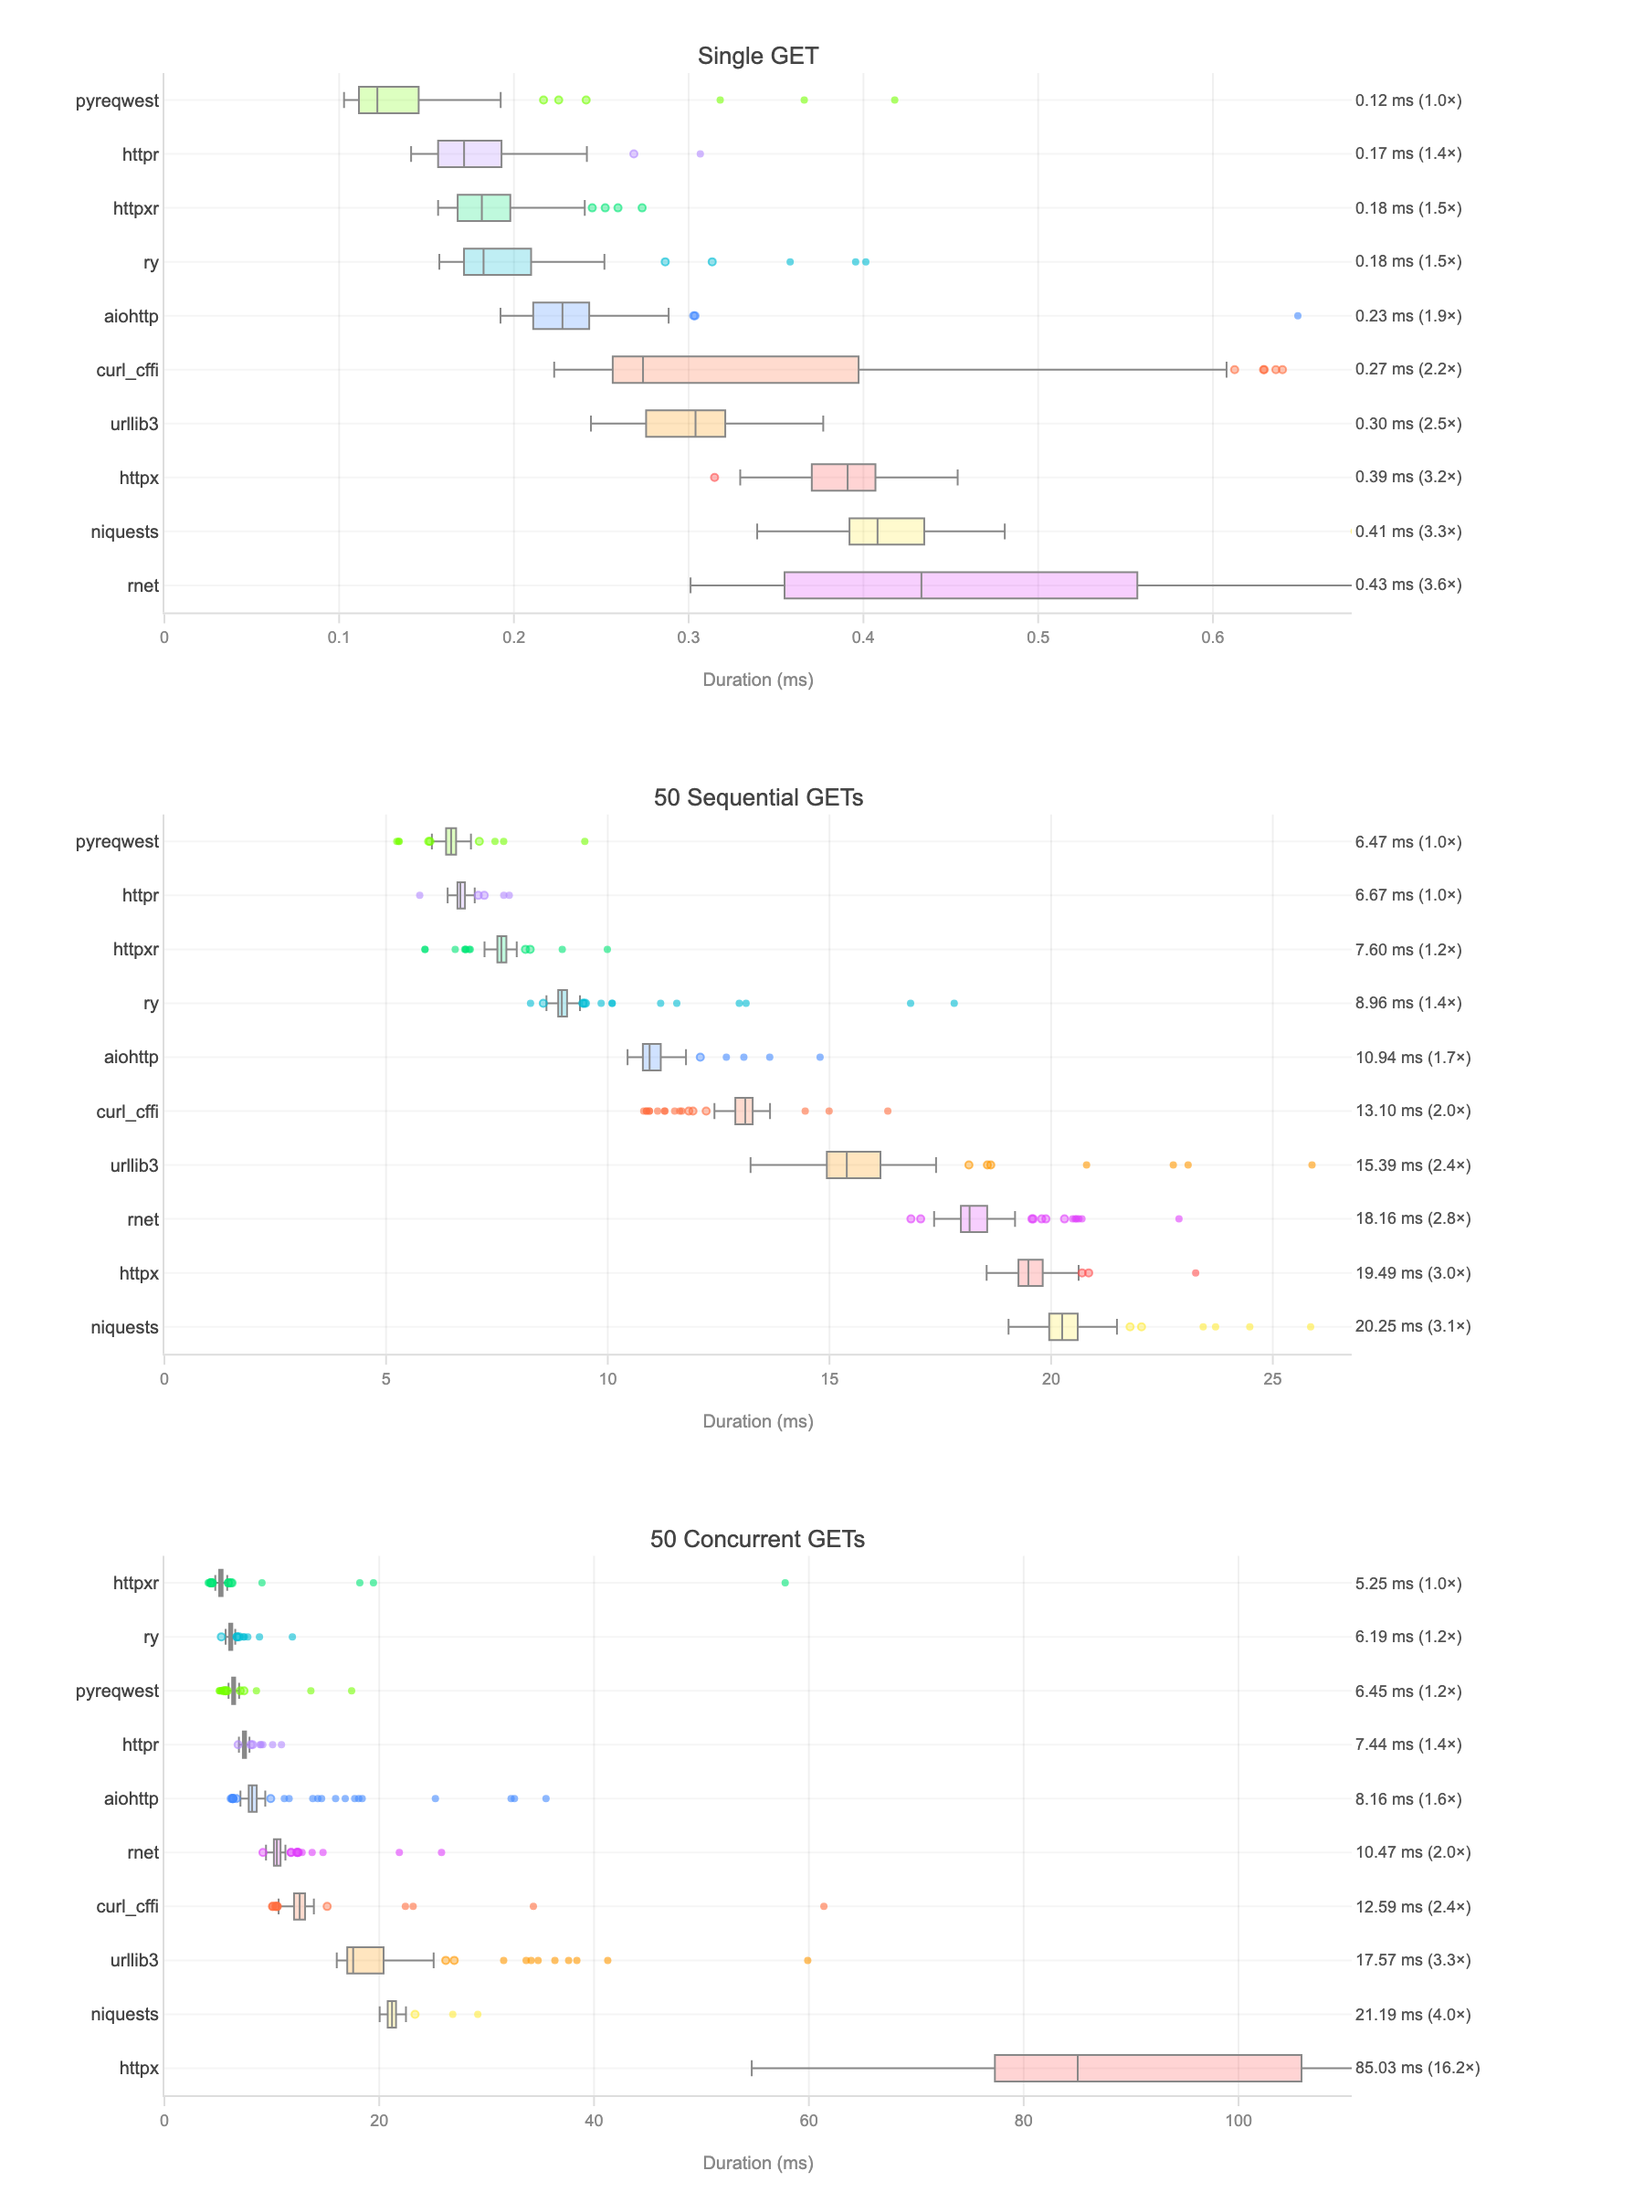
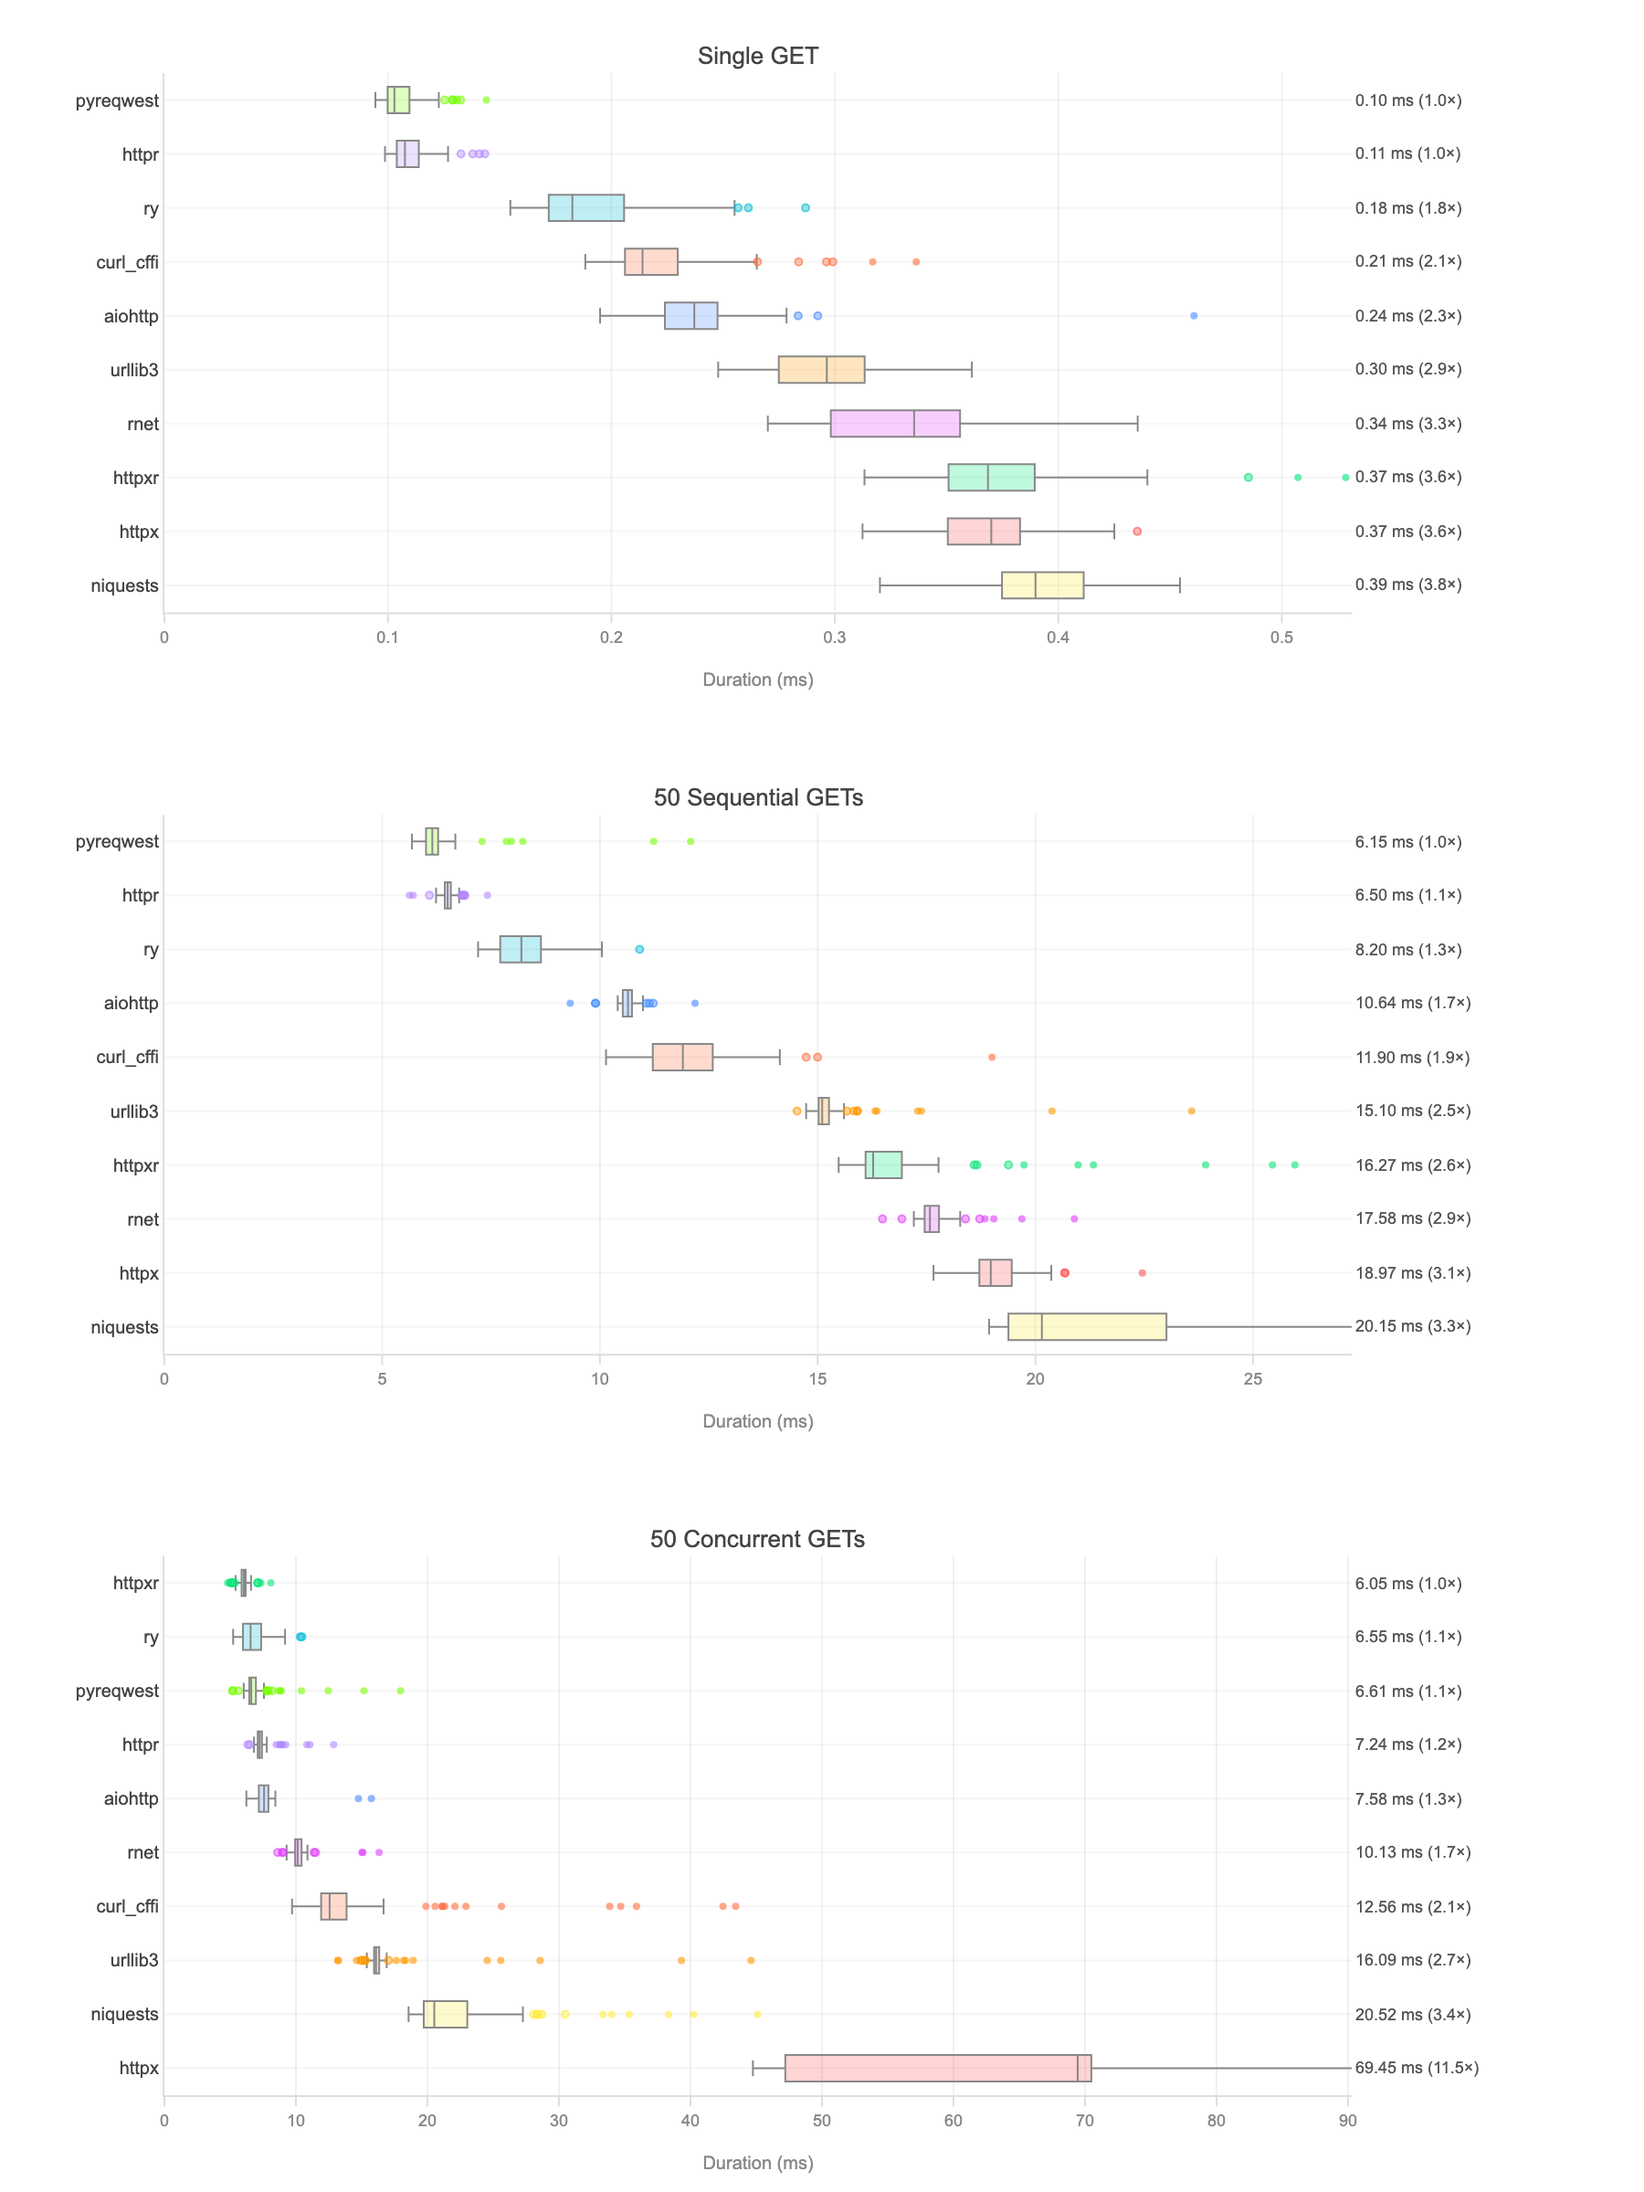
docs: regenerate benchmark plots with fast-path and bump v0.30.7 for PyPI

diff --git a/README.md b/README.md
@@ -1,3 +1,7 @@
+<div align="center">
+  <img src="docs/assets/logo.svg" alt="httpxr logo" width="120" height="120">
+</div>
+
 # httpxr
 
 [![CI](https://github.com/bmsuisse/httpxr/actions/workflows/ci.yml/badge.svg)](https://github.com/bmsuisse/httpxr/actions/workflows/ci.yml)
@@ -58,9 +62,9 @@ Scenarios: **Single GET**, **50 Sequential GETs**, **50 Concurrent GETs**.
 
 | Scenario | httpxr | httpr | pyreqwest | ry | aiohttp | curl_cffi | urllib3 | rnet | httpx | niquests |
 |:---|---:|---:|---:|---:|---:|---:|---:|---:|---:|---:|
-| Single GET | **0.20** | 0.12 | 0.10 | 0.18 | 0.24 | 0.23 | 0.30 | 0.34 | 0.38 | 0.39 |
-| 50 Sequential GETs | **7.84** | 6.52 | 6.33 | 8.98 | 10.73 | 12.91 | 15.17 | 17.76 | 18.78 | 19.65 |
-| 50 Concurrent GETs | **5.23** | 7.31 | 6.56 | 6.23 | 7.85 | 12.31 | 16.26 | 10.15 | 70.23 | 21.14 |
+| Single GET | **0.37** | 0.11 | 0.10 | 0.18 | 0.24 | 0.21 | 0.30 | 0.34 | 0.37 | 0.39 |
+| 50 Sequential GETs | **16.27** | 6.50 | 6.15 | 8.20 | 10.64 | 11.90 | 15.10 | 17.58 | 18.97 | 20.15 |
+| 50 Concurrent GETs | **6.05** | 7.24 | 6.61 | 6.55 | 7.58 | 12.56 | 16.09 | 10.13 | 69.45 | 20.52 |
 
 > **Key takeaways:**
 > - **httpxr** is the **fastest full-featured httpx-compatible client** — on par with raw Rust libraries
